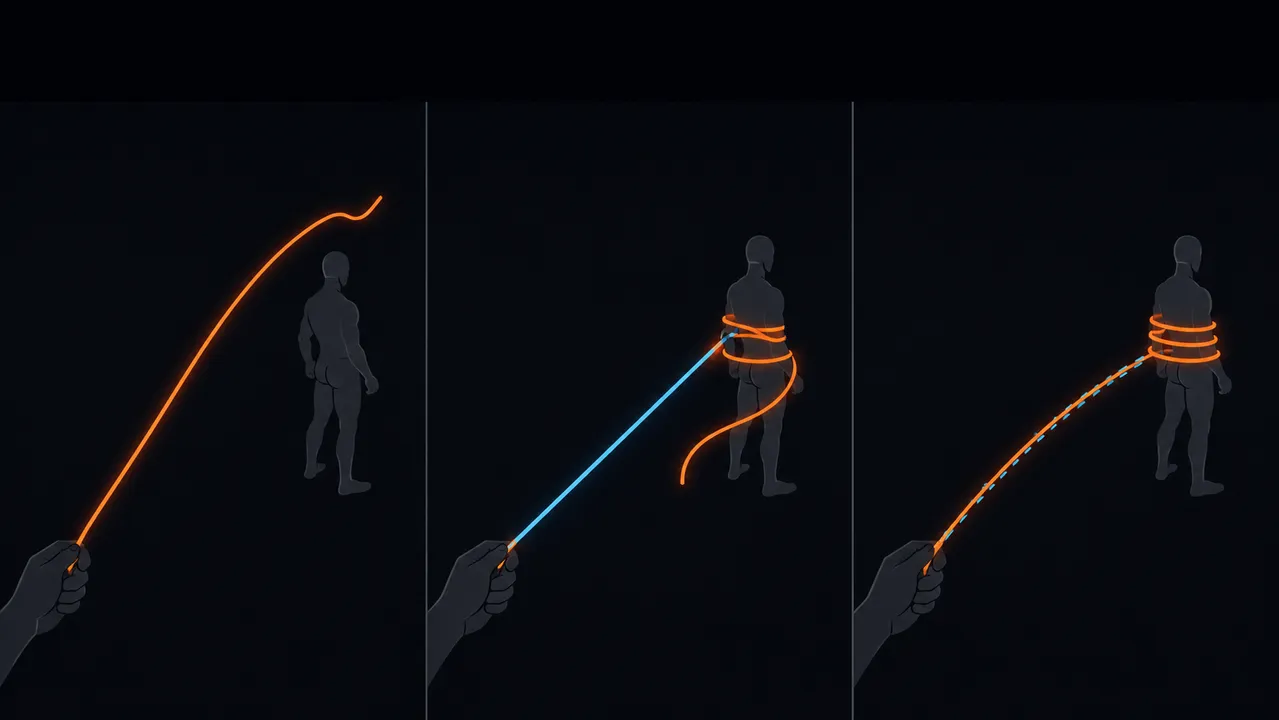
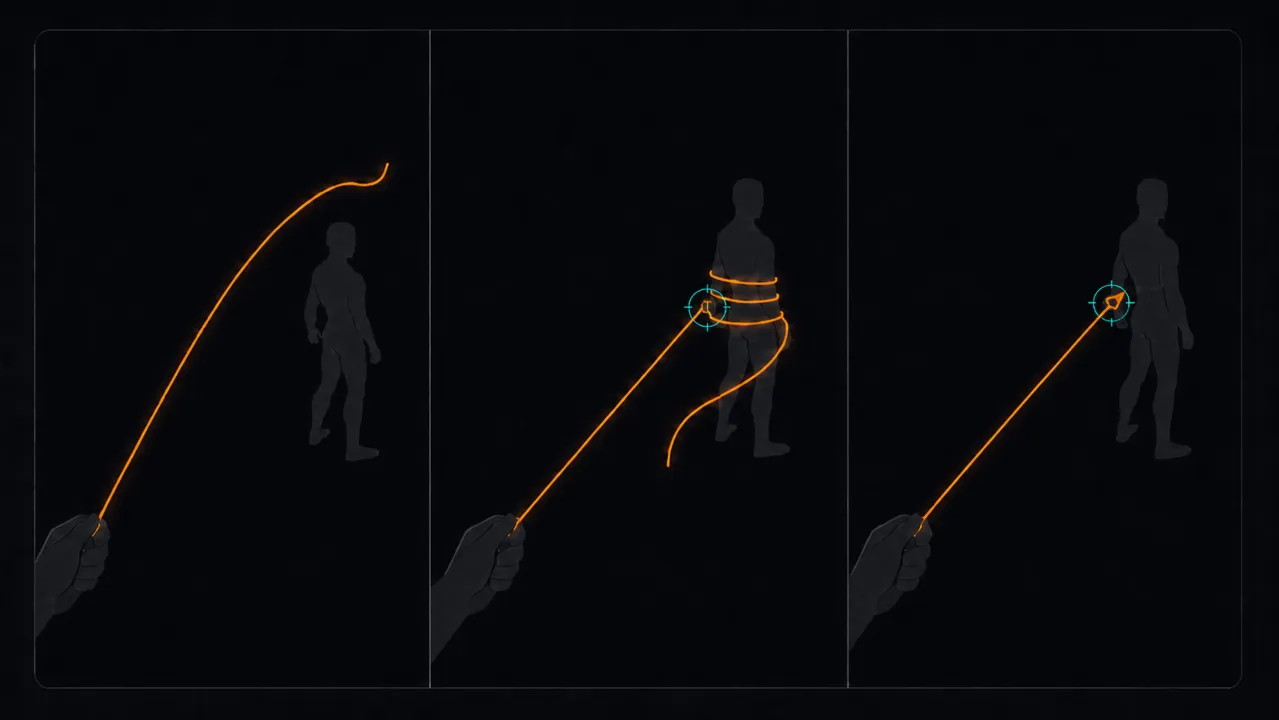
Redraw the wrap-modes diagram
Replaces the first version with one that marks the aim rather than drawing
it. The blue aim line and the dashed guide are gone; in their place a small
cyan reticle sits on the point the throw is locked to, and each panel now
sits in its own bordered frame.

Read left to right it still follows the body. The first throw arcs past and
touches nothing. The second reaches the marked point and coils the torso
with slack left hanging, which is the mode that reaches but judges whether
the bind takes. The third runs straight to the marked point and closes on
it, which is the one that catches what you aimed at.

Alt text updated to match: it described a blue aim line and a dashed guide
that no longer exist.

Still a diagram rather than a capture, for the reason the comment above it
gives -- three outcomes of one throw is a claim about behaviour, and drawing
it keeps it from being mistaken for footage of the plugin doing it.

Smaller too, at 14KB against 17KB.

diff --git a/src/data/features.js b/src/data/features.js
@@ -111,7 +111,7 @@ export const SHOWCASE = [
           type: 'image',
           src: 'media/WrapMode.webp',
           alt:
-            'A three-panel diagram. First, the thrown rope arcs past a figure without touching it. Second, an aim line runs straight to the figure and the rope coils round its torso with a loose tail hanging. Third, the rope follows a guide line and winds tightly round the torso.',
+            'A three-panel diagram. First, the thrown rope arcs past a figure without touching it. Second, the rope runs to a marked point on the figure and coils round the torso, leaving a loose tail. Third, the rope runs straight to the marked point and closes on it exactly.',
         },
         mediaHint: 'Same throw in all three modes, side by side',
       },
